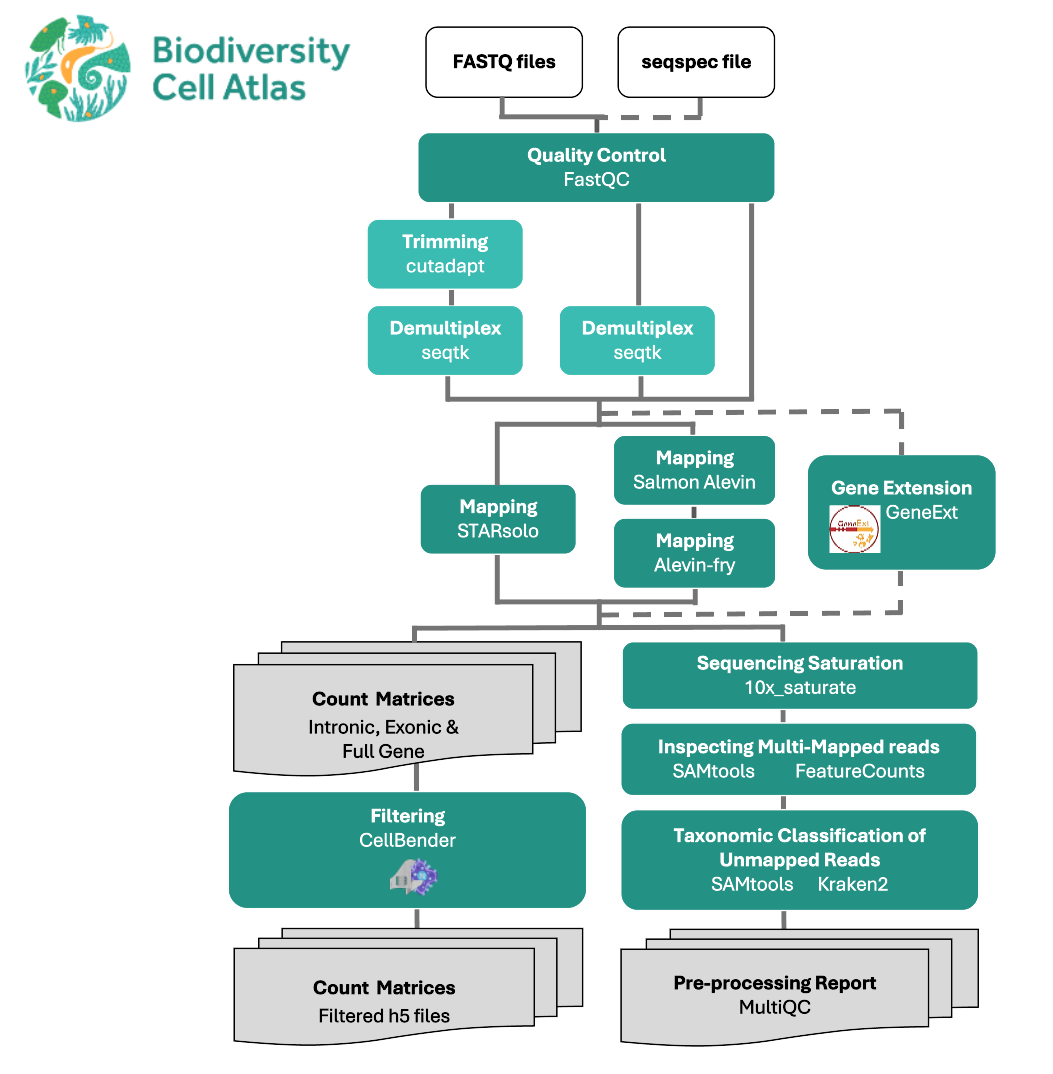
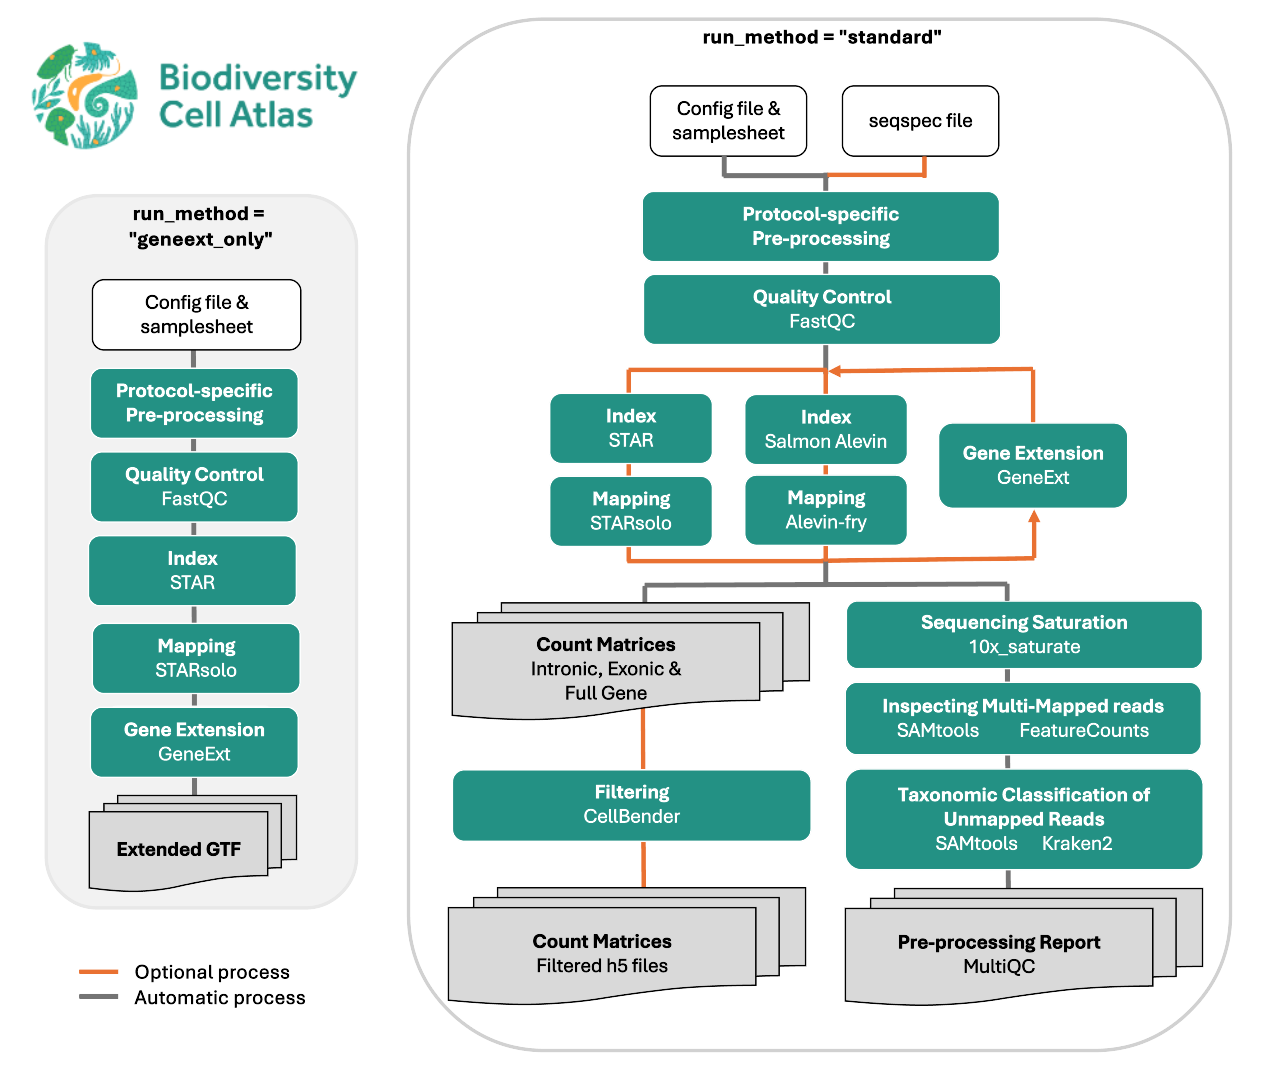
Introduction of run_method variable to only run GeneExt

diff --git a/docs/CONFIGURATION_PARAMETERS.md b/docs/CONFIGURATION_PARAMETERS.md
@@ -22,10 +22,12 @@ Within each custom configuration file the following variables can be defined:
 |------------------------|-------------------|-------------|
 | `input`                | __Required__      | Path to the samplesheet. |
 | `outdir`               | __Required__      | Path to the results/output directory; must exist before running. |
+| `bc_whitelist`         | __Required__      | Path or link to the barcode whitelist file(s). If it's a link, it will be automatically downloaded and unzipped if applicable.|
 | `protocol`              | __Required__     | Specifies the sequencing technology used (must be one of the following: `"oak_seq"`, `"10xv3"`, `"parse_biosciences_WT_mini"` or `"parse_biosciences_WT"`,     `"bd_rhapsody"`, `"sciRNAseq3"` , `"ultima_genomics"` or `"seqspec"`). |
 | `ref_fasta`            | __Required__      | Path to the genome FASTA file used for mapping reads. |
 | `ref_gtf`              | __Required__      | Path to the GTF/GFF file formatted for STARsolo. |
 | `ref_gtf_alt`          | Optional          | Path to the GTF/GFF file formatted specifically for analysis with Parse Biosciences / CellRanger pipeline. Defaults to the same path as `ref_gtf`. |
+| `run_method`             | Optional          | Method of running the pre-processing pipeline, demonstrated in the [pipeline diagram](img/Preprocs_Pipeline.png), currently either `"standard"` or `"geneext_only"`. Default is set to `"standard"`. |
 | `seqspec_file`         | Optional          | Path to the seqspec file. |
 
 
@@ -36,16 +38,27 @@ Within each custom configuration file the following variables can be defined:
 |------------------------|-------------------|-------------|
 | `mapping_software`     | Optional          | Software used to map reads (must be one of the following: `"starsolo"`, `"alevin"` or `"both"`). Default set to `"starsolo"`. |
 | `mt_contig`            | Optional          | Name of the mitochondrial contig in the reference annotation, used to calculate mtDNA content. Default set to `"chrM M MT"`. |
-| `star_index`           | Optional          | |
-| `star_solocellfilter`  | Optional          | |
-
+| `star_index`           | Optional          | Path to the pre-generated STAR index. By default the STAR index is created within the pipeline.|
+| `star_genomeSAindexNbases` | Optional         | Lenght of the SA pre-indexing string in STAR. See [protocol-specific defaults](../conf/seqtech_parameters.config) set in the seqtech_paramaters.config file. |
+| `star_genomeSAsparseD`    | Optional       | Suffix array sparsity in STAR.  See [protocol-specific defaults](../conf/seqtech_parameters.config) set in the seqtech_paramaters.config file. |
+| `star_solocellfilter`  | Optional          | Cell filtering type and parameters used by STAR. See [protocol-specific defaults](../conf/seqtech_parameters.config) set in the seqtech_paramaters.config file.|
+| `star_soloFeatures`    | Optional         | Genomic features for which the UMI counts per Cell Barcode are collected. See [protocol-specific defaults](../conf/seqtech_parameters.config) set in the seqtech_paramaters.config file. |
+| `star_outFilterScoreMin` | Optional       | Alignment will be output only if its score is higher than or equal to this value normalized by read length. See [protocol-specific defaults](../conf/seqtech_parameters.config) set in the seqtech_paramaters.config file. |
+| `star_outSAMunmapped`     | Optional      | Output of unmapped reads in the SAM format. See [protocol-specific defaults](../conf/seqtech_parameters.config) set in the seqtech_paramaters.config file. |
+| `star_outSAMattributes` | Optional        | String of desired SAM attributes. See [protocol-specific defaults](../conf/seqtech_parameters.config) set in the seqtech_paramaters.config file. |
+| `star_soloTypestring` | Optional          | String of defining soloType and barcode structure. See [protocol-specific defaults](../conf/seqtech_parameters.config) set in the seqtech_paramaters.config file. |
+| `star_soloCBmatchWLtype` | Optional       | Type of matching the cell barcodes to the barcode whiteList. See [protocol-specific defaults](../conf/seqtech_parameters.config) set in the seqtech_paramaters.config file. |
+| `star_soloUMIfiltering` | Optional        | Type of UMI filtering. See [protocol-specific defaults](../conf/seqtech_parameters.config) set in the seqtech_paramaters.config file. |
+| `star_soloMultiMappers` | Optional        | Counting method for reads mapping to multiple genes. See [protocol-specific defaults](../conf/seqtech_parameters.config) set in the seqtech_paramaters.config file. |
+| `star_soloUMIdedup` | Optional         | Type of UMI deduplication algorithm. See [protocol-specific defaults](../conf/seqtech_parameters.config) set in the seqtech_paramaters.config file. |
+| `star_clipAdapterType` | Optional         | Type of adapter clipping. See [protocol-specific defaults](../conf/seqtech_parameters.config) set in the seqtech_paramaters.config file. |
 
 
 ## FeatureCounts Variables
 
 | Variable               | Required/Optional | Description |
 |------------------------|-------------------|-------------|
-| `perform_featurecounts`  | Optional        | Boolean flag to enable or disable calculation of mtDNA & rRNA percentages. Default is `true`. |
+| `perform_featurecounts`  | Optional        | Boolean flag to enable or disable calculation of mtDNA & rRNA percentages. Default is `false`. |
 | `grep_rrna`            | Optional          | String used to grep ribosomal RNA (rRNA) reads from annotations. Default set to `"rRNA"`|
 
 

diff --git a/README.md b/README.md
@@ -140,12 +140,13 @@ Within each custom configuration file the following variables can be defined:
 | `ref_fasta`              | **Required**      | Path to the genome FASTA file used for mapping reads.                                                                                                                                                                             |
 | `ref_gtf`                | **Required**      | Path to the GTF/GFF file formatted for STARsolo.                                                                                                                                                                                  |
 | `ref_gtf_alt`            | Optional          | Path to the GTF/GFF file formatted specifically for analysis with Parse Biosciences / CellRanger pipeline. Defaults to the same path as `ref_gtf`.                                                                                |
+| `run_method`             | Optional          | Method of running the pre-processing pipeline, demonstrated in the [pipeline diagram](img/Preprocs_Pipeline.png). Default is set to `"standard"`.                                                                                 |
 | `seqspec_file`           | Optional          | Path to the seqspec file.                                                                                                                                                                                                         |
 | `mt_contig`              | Optional          | Name of the mitochondrial contig in the reference annotation, used to calculate mtDNA content. Default set to `"chrM M MT"`.                                                                                                      |
 | `grep_rrna`              | Optional          | String used to grep ribosomal RNA (rRNA) reads from annotations. Default set to `"rRNA"`                                                                                                                                          |
 | `mapping_software`       | Optional          | Software used to map reads (must be one of the following: `"starsolo"`, `"alevin"` or `"both"`). Default set to `"starsolo"`.                                                                                                     |
 | `perform_geneext`        | Optional          | Boolean flag to enable or disable the gene extension step in preprocessing. Default is `false`.                                                                                                                                   |
-| `perform_featurecounts`  | Optional          | Boolean flag to enable or disable calculation of mtDNA & rRNA percentages. Default is `true`.                                                                                                                                     |
+| `perform_featurecounts`  | Optional          | Boolean flag to enable or disable calculation of mtDNA & rRNA percentages. Default is `false`.                                                                                                                                    |
 | `perform_kraken`         | Optional          | Boolean flag to enable or disable Kraken2 classification of unmapped reads. Default is `false`.                                                                                                                                   |
 | `perform_cellbender`     | Optional          | Boolean flag to enable or disable removal of ambient RNA using CellBender. Default is `false`.                                                                                                                                    |
 | `kraken_db_path`         | Optional          | Path to the Kraken2 database used for taxonomic classification of unmapped reads, if empty, a default database will be installed.                                                                                                 |

diff --git a/docs/usage.md b/docs/usage.md
@@ -48,7 +48,7 @@ Within each custom configuration file the following variables can be defined:
 | `grep_rrna`              | Optional          | String used to grep ribosomal RNA (rRNA) reads from annotations. Default set to `"rRNA"`                                                                                                                                          |
 | `mapping_software`       | Optional          | Software used to map reads (must be one of the following: `"starsolo"`, `"alevin"` or `"both"`). Default set to `"starsolo"`.                                                                                                     |
 | `perform_geneext`        | Optional          | Boolean flag to enable or disable the gene extension step in preprocessing. Default is `false`.                                                                                                                                   |
-| `perform_featurecounts`  | Optional          | Boolean flag to enable or disable calculation of mtDNA & rRNA percentages. Default is `true`.                                                                                                                                     |
+| `perform_featurecounts`  | Optional          | Boolean flag to enable or disable calculation of mtDNA & rRNA percentages. Default is `false`.                                                                                                                                     |
 | `perform_kraken`         | Optional          | Boolean flag to enable or disable Kraken2 classification of unmapped reads. Default is `false`.                                                                                                                                   |
 | `perform_cellbender`     | Optional          | Boolean flag to enable or disable removal of ambient RNA using CellBender. Default is `false`.                                                                                                                                    |
 | `kraken_db_path`         | Optional          | Path to the Kraken2 database used for taxonomic classification of unmapped reads, if empty, a default database will be installed.                                                                                                 |
